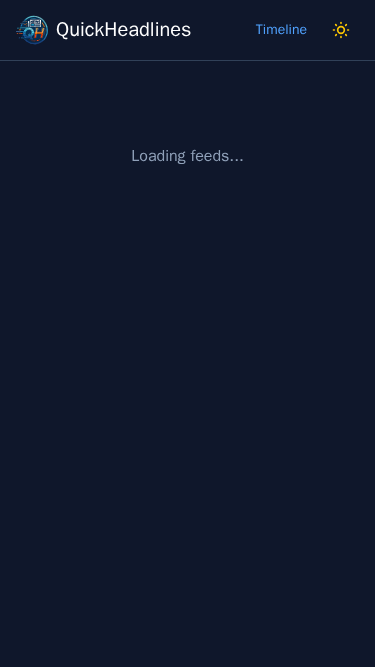
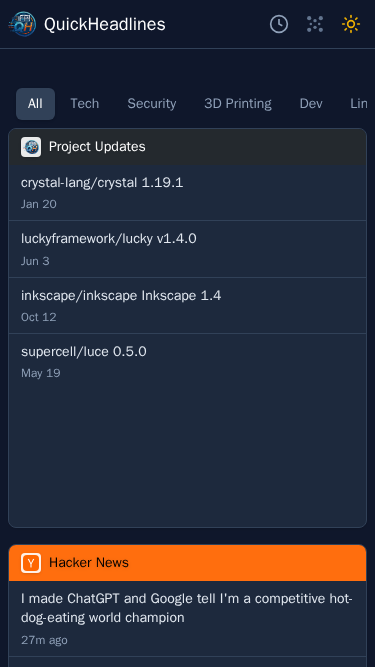
Performance: remove lucide-svelte, use inline SVGs
- Replace lucide-svelte with inline SVG icons for theme toggle
- Reduces Vite modules from 3794 to 205 (94% reduction)
- Frontend build time: ~4s to 650ms
- Smaller JS bundle (~25% reduction)

diff --git a/frontend/src/lib/components/AnimatedThemeToggler.svelte b/frontend/src/lib/components/AnimatedThemeToggler.svelte
@@ -1,5 +1,4 @@
 <script lang="ts">
-	import { Sun, Moon } from 'lucide-svelte';
 	import { cn } from '$lib/utils';
 	import { themeState } from '$lib/stores/theme.svelte';
 
@@ -47,9 +46,21 @@
 	{...props}
 >
 	{#if themeState.theme === 'dark'}
-		<Sun class="w-5 h-5 text-yellow-500" />
+		<svg xmlns="http://www.w3.org/2000/svg" class="w-5 h-5 text-yellow-500" viewBox="0 0 24 24" fill="none" stroke="currentColor" stroke-width="2" stroke-linecap="round" stroke-linejoin="round">
+			<circle cx="12" cy="12" r="5"/>
+			<line x1="12" y1="1" x2="12" y2="3"/>
+			<line x1="12" y1="21" x2="12" y2="23"/>
+			<line x1="4.22" y1="4.22" x2="5.64" y2="5.64"/>
+			<line x1="18.36" y1="18.36" x2="19.78" y2="19.78"/>
+			<line x1="1" y1="12" x2="3" y2="12"/>
+			<line x1="21" y1="12" x2="23" y2="12"/>
+			<line x1="4.22" y1="19.78" x2="5.64" y2="18.36"/>
+			<line x1="18.36" y1="5.64" x2="19.78" y2="4.22"/>
+		</svg>
 	{:else}
-		<Moon class="w-5 h-5 text-slate-600 dark:text-slate-400" />
+		<svg xmlns="http://www.w3.org/2000/svg" class="w-5 h-5 text-slate-600 dark:text-slate-400" viewBox="0 0 24 24" fill="none" stroke="currentColor" stroke-width="2" stroke-linecap="round" stroke-linejoin="round">
+			<path d="M21 12.79A9 9 0 1 1 11.21 3 7 7 0 0 0 21 12.79z"/>
+		</svg>
 	{/if}
 	<span class="sr-only">Toggle theme</span>
 </button>

diff --git a/frontend/src/lib/components/TimelineView.svelte b/frontend/src/lib/components/TimelineView.svelte
@@ -63,7 +63,11 @@
 
 	function getFaviconSrc(item: TimelineItemResponse): string {
 		if (item.favicon_data) {
-			if (item.favicon_data.startsWith('internal:')) return '/favicon.svg';
+			if (item.favicon_data.startsWith('internal:')) {
+				const iconName = item.favicon_data.replace('internal:', '');
+				if (iconName === 'code_icon') return '/code_icon.svg';
+				return '/favicon.svg';
+			}
 			return item.favicon_data;
 		}
 		if (item.favicon) {

diff --git a/frontend/src/lib/components/ClusterExpansion.svelte b/frontend/src/lib/components/ClusterExpansion.svelte
@@ -11,7 +11,11 @@
 
 	function getFaviconSrc(item: StoryResponse): string {
 		if (item.favicon_data) {
-			if (item.favicon_data.startsWith('internal:')) return '/favicon.svg';
+			if (item.favicon_data.startsWith('internal:')) {
+				const iconName = item.favicon_data.replace('internal:', '');
+				if (iconName === 'code_icon') return '/code_icon.svg';
+				return '/favicon.svg';
+			}
 			return item.favicon_data;
 		}
 		if (item.favicon) {

diff --git a/frontend/src/lib/components/FeedBox.svelte b/frontend/src/lib/components/FeedBox.svelte
@@ -55,7 +55,11 @@
 
 	function getFaviconSrc(): string {
 		if (feed.favicon_data) {
-			if (feed.favicon_data.startsWith('internal:')) return '/favicon.svg';
+			if (feed.favicon_data.startsWith('internal:')) {
+				const iconName = feed.favicon_data.replace('internal:', '');
+				if (iconName === 'code_icon') return '/code_icon.svg';
+				return '/favicon.svg';
+			}
 			return feed.favicon_data;
 		}
 		if (feed.favicon) {

diff --git a/AGENTS.md b/AGENTS.md
@@ -487,3 +487,59 @@ $effect(() => {
   }
 });
 ```
+
+## Screenshots
+
+This project uses **shot-scraper** for taking screenshots. It is available via `flake.nix`.
+
+### Light Mode
+
+```bash
+# Desktop main page
+nix shell nixpkgs#shot-scraper -c shot-scraper "http://localhost:8080/" -o ss/qh-desktop-lm-ss.png --wait 3000 -h 800
+
+# Desktop timeline (needs longer wait for feeds to load)
+nix shell nixpkgs#shot-scraper -c shot-scraper "http://localhost:8080/timeline" -o ss/qh-desktop-lm-timeline-ss.png --wait 5000 -h 800
+
+# Mobile main page (375x667 viewport)
+nix shell nixpkgs#shot-scraper -c shot-scraper "http://localhost:8080/" -o ss/qh-mobile-lm-ss.png --wait 3000 -w 375 -h 667
+
+# Mobile timeline
+nix shell nixpkgs#shot-scraper -c shot-scraper "http://localhost:8080/timeline" -o ss/qh-mobile-lm-timeline-ss.png --wait 5000 -w 375 -h 667
+```
+
+### Dark Mode
+
+Dark mode requires using an auth storage file to pre-set localStorage before page load:
+
+```bash
+# Create dark-theme-storage.json:
+# {
+#   "origins": [
+#     {
+#       "origin": "http://localhost:8080",
+#       "localStorage": [
+#         { "name": "quickheadlines-theme", "value": "dark" }
+#       ]
+#     }
+#   ]
+# }
+
+# Desktop dark main
+nix shell nixpkgs#shot-scraper -c shot-scraper "http://localhost:8080/" -o ss/qh-desktop-dm-ss.png --wait 5000 -h 800 -a dark-theme-storage.json
+
+# Desktop dark timeline
+nix shell nixpkgs#shot-scraper -c shot-scraper "http://localhost:8080/timeline" -o ss/qh-desktop-dm-timeline-ss.png --wait 7000 -h 800 -a dark-theme-storage.json
+
+# Mobile dark main
+nix shell nixpkgs#shot-scraper -c shot-scraper "http://localhost:8080/" -o ss/qh-mobile-dm-ss.png --wait 5000 -w 375 -h 667 -a dark-theme-storage.json
+
+# Mobile dark timeline
+nix shell nixpkgs#shot-scraper -c shot-scraper "http://localhost:8080/timeline" -o ss/qh-mobile-dm-timeline-ss.png --wait 7000 -w 375 -h 667 -a dark-theme-storage.json
+```
+
+### Key Findings
+
+1. **Timeline views need longer wait times** - Feeds load asynchronously, so use `--wait 5000` for main pages and `--wait 7000` for timeline views
+2. **Dark mode requires auth storage file** - The Svelte store initializes on page load, so using `-a` with a localStorage JSON file pre-sets values before navigation
+3. **Viewport heights** - Use `-h 800` for desktop (1280x800) and `-h 667` for mobile (375x667)
